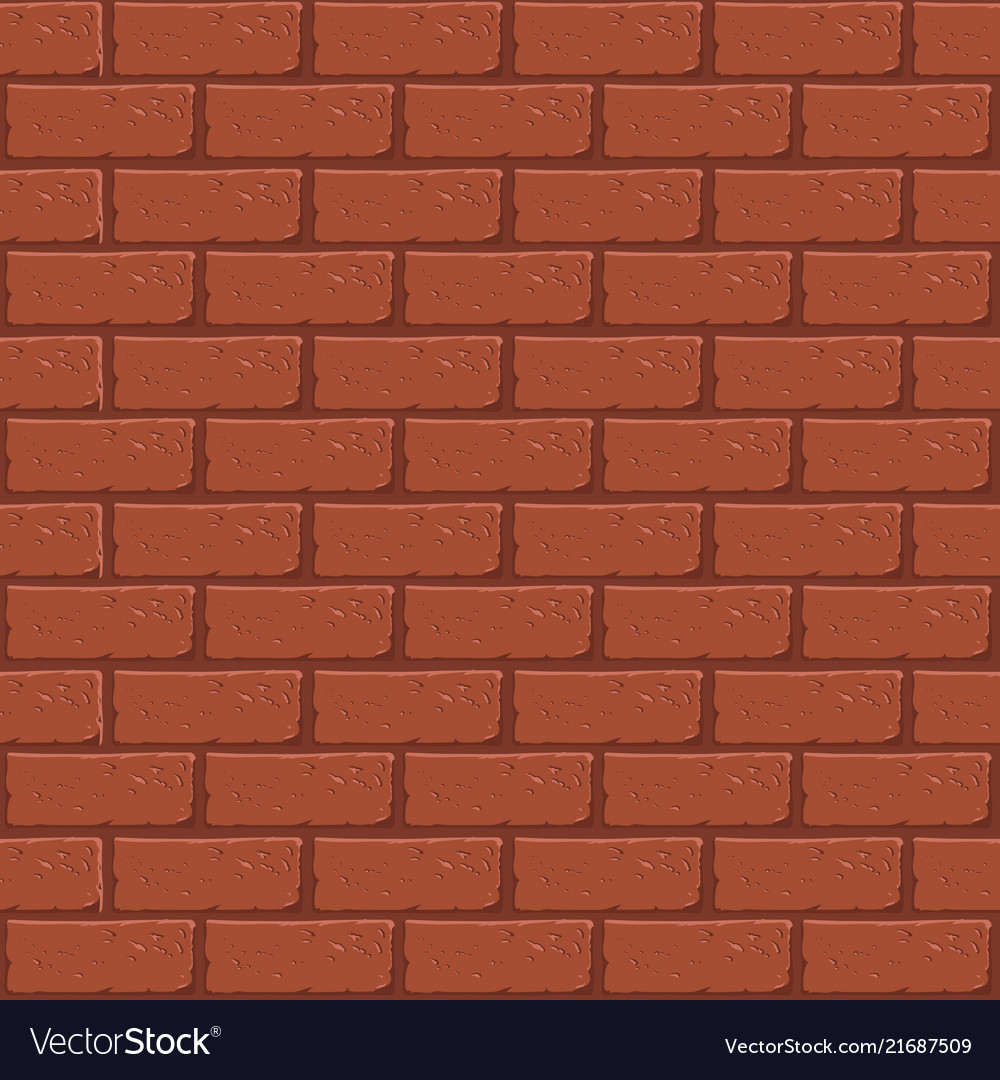
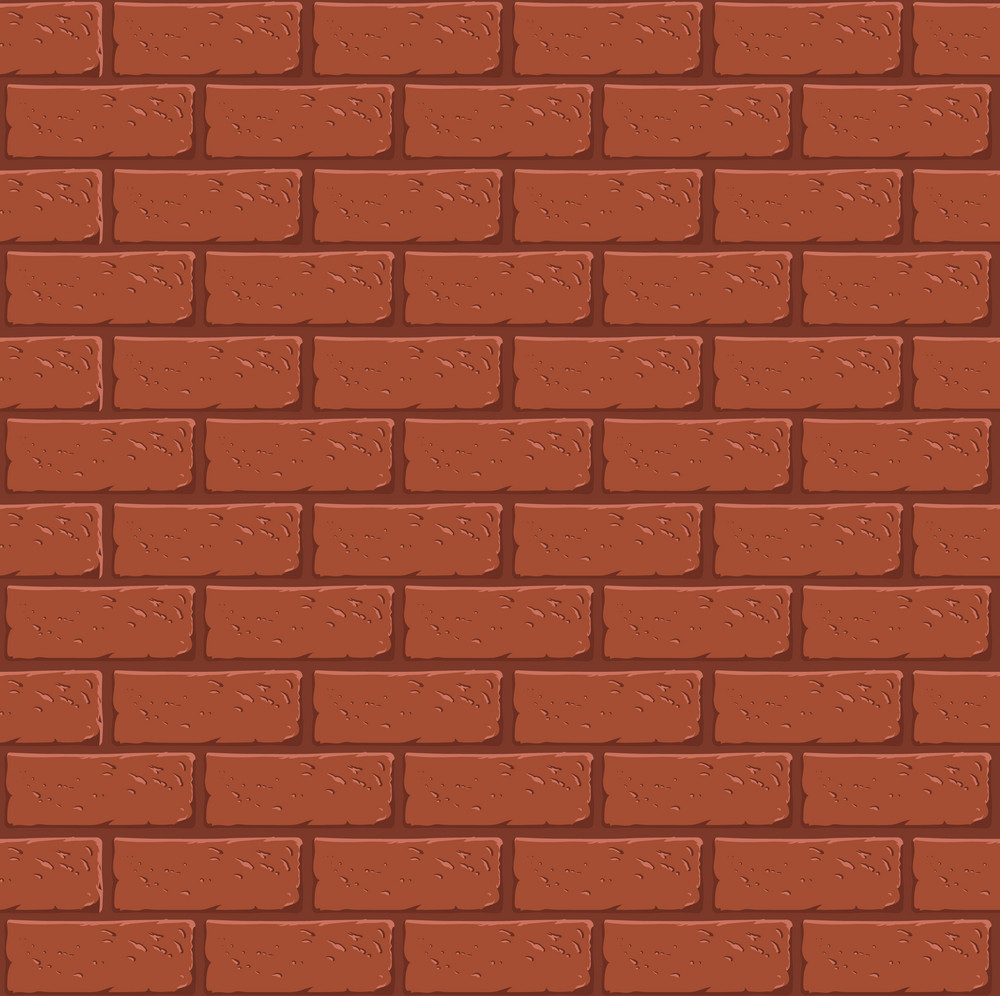
update read me files

diff --git a/src/index.css b/src/index.css
@@ -4,7 +4,6 @@
 
 html {
   height: 100%;
-
 }
 
 body {
@@ -12,14 +11,13 @@ body {
   align-content: center;
   justify-content: center;
   background-image: url(./components/brickBG.jpg);
-  /* background-repeat: no-repeat;
-  background-size: 100%; */
+  background-repeat: repeat-y;
+  background-size: 100%;
   min-height: 100%;
-
 }
 
 .MainNav {
-  display: flex
+  display: flex;
 }
 
 table {
@@ -27,7 +25,7 @@ table {
 }
 
 .button {
-  font-size: 2rem;
+  font-size: 3rem;
 }
 
 tr {
@@ -36,13 +34,31 @@ tr {
 
 .tdBox {
   border-radius: 10%;
-  border: .5rem solid lightgray;
-  padding: .5rem;
+  border: 0.4rem solid lightgray;
+  padding: 0.4rem;
   background-color: lightgray;
   -webkit-box-shadow: 0 8px 6px -6px black;
   -moz-box-shadow: 0 8px 6px -6px black;
   box-shadow: 0 8px 6px -6px black;
+}
 
+.difficultyText {
+  color: white;
+  font-size: 2rem;
+  text-shadow: 5px 5px 10px black;
+}
+
+.loseText {
+  color: white;
+  text-shadow: 5px 5px 10px black;
+  font-family: 'Permanent Marker', cursive;
+  text-align: center;
+  font-size: 5rem;
+}
+.levelChange {
+  transform: scale(1.7);
+  transform-origin: 0 0;
+  margin: 4rem 0rem 2rem 1rem;
 }
 
 .big {
@@ -54,7 +70,7 @@ tr {
 }
 
 .small {
-  padding: .5rem;
+  padding: 0.5rem;
 }
 
 .reveal {
@@ -66,16 +82,12 @@ tr {
   background-image: url(./components/flag.png);
   background-repeat: no-repeat;
   background-size: contain;
-
 }
 
 .bomb {
   background-image: url(./components/mark-bomb.jpg);
   background-repeat: no-repeat;
   background-size: contain;
-
-
-
 }
 
 .number {
@@ -89,4 +101,5 @@ tr {
   font-family: 'Permanent Marker', cursive;
   text-align: center;
   font-size: 3rem;
+  margin-left: 20%;
 }

diff --git a/src/App.js b/src/App.js
@@ -170,28 +170,23 @@ class App extends Component {
     return (
       <main>
         <div className="MainNav">
-          <h1 className="mainTitle"> Mine Swipe </h1>
+          <h1 className="mainTitle"> Mine Sweeper </h1>
           <section>
-            <img
-              src={bomb}
-              alt="Bomb"
-              // height="80px"
-              // width="80px"
-            />
+            <img src={bomb} alt="Bomb" height="110px" width="110px" />
           </section>
         </div>
         <button className="button" onClick={this.resetGame}>
           Reset
         </button>
-        <label> Choose difficulty </label>
-        <select onChange={this.recordDifficulty}>
+        <label className="difficultyText"> Choose difficulty </label>
+        <select className="levelChange" onChange={this.recordDifficulty}>
           <option value="0">0</option>
           <option value="1">1</option>
           <option value="2">2</option>
         </select>
         {this.state.status === 'lost' ? (
           <div>
-            <h1> You lose </h1>
+            <h1 className="loseText"> You lose </h1>
           </div>
         ) : null}
         {this.state.status === 'won' ? (

diff --git a/README.md b/README.md
@@ -1,1 +1,3 @@
-# Mineswipe Practice
+# Minesweeper Practice
+
+This is the classic game mine sweeper. It was built using React, REST APIs, lifecycle methods, API documentation, and Axios.
